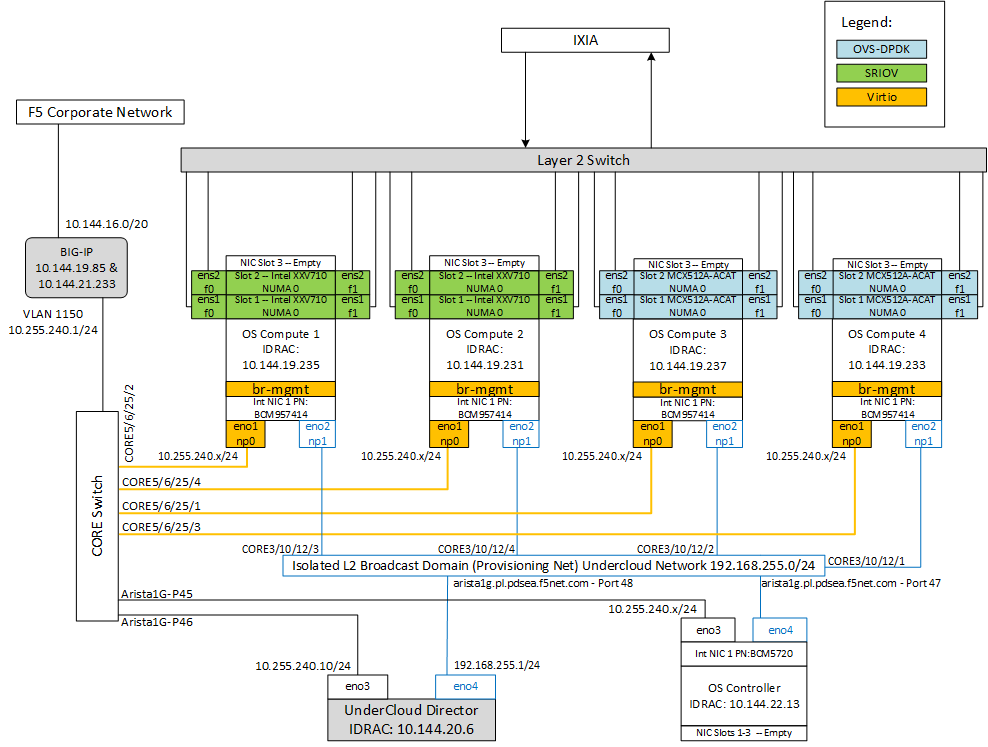
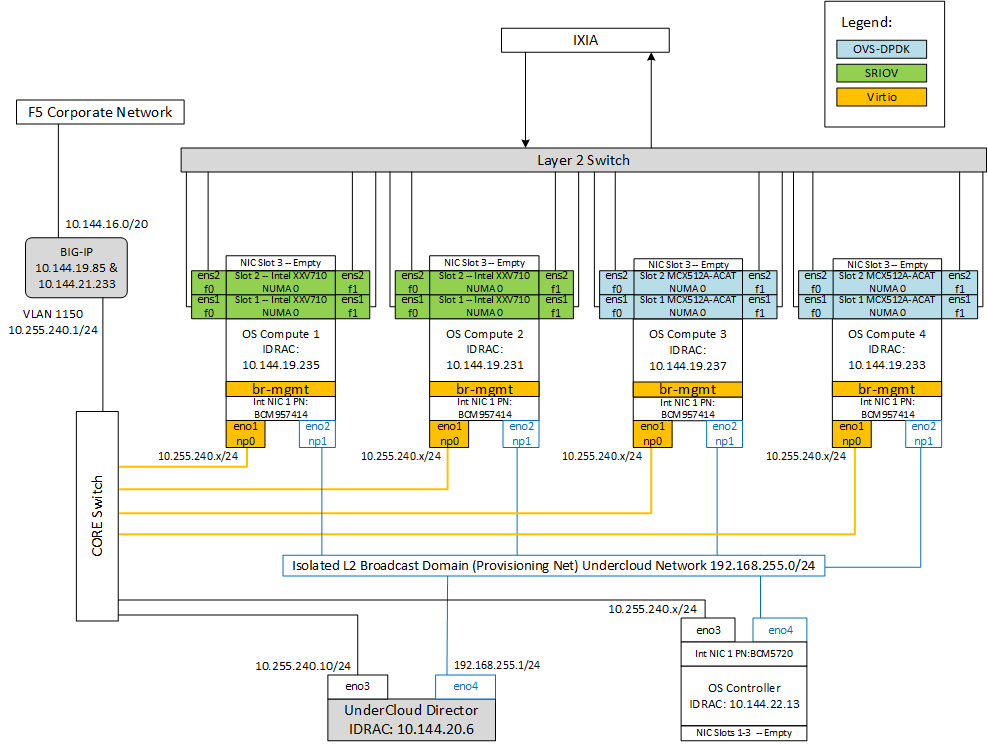
update

diff --git a/Openstack_2.x_Build_Instructions/Openstack_2.x_Configuration_and_Deployment_Guide_for_RHOSP_16.md b/Openstack_2.x_Build_Instructions/Openstack_2.x_Configuration_and_Deployment_Guide_for_RHOSP_16.md
@@ -30,14 +30,14 @@
 
 <br/>  
 
-| **Node**            | **Location** | **eno3 mgmt** | **eno1np0 mgmt** | **eno4 prov** |  **eno2np1 prov**  |
-| :---------:         | :----------: | :----------:  | :----------:     | :----------:    |  :----------:     |  
-| Undercloud Director | L25-A08-U13  | CORE3/6/2/3   | N/A              | CORE3/5/21/3    | N/A      |  
-| Controller          | L25-A08-U14  | CORE3/5/21/1  | N/A              | CORE3/6/2/1     | N/A     |  
-| Compute Node 1      | L25-A15-U25  | N/A           | CORE3/5/21/2    | N/A     | CORE3/10/1/3      |  
-| Compute Node 2      | L25-A15-U27  | N/A           | CORE3/5/21/2    | N/A     | CORE3/10/1/3      |  
-| Compute Node 3      | L25-A15-U24  | N/A           | CORE3/5/21/2    | N/A     | CORE3/10/1/3      |  
-| Compute Node 4      | L25-A15-U26  | N/A           | CORE3/5/21/2    | N/A     | CORE3/10/1/3      |  
+| **Node**            | **Location** | **eno3 mgmt** | **eno1np0 mgmt** | **eno4 prov** |  **eno2np1 prov** |
+| :---------:         | :----------: | :----------:  | :----------:     | :----------:  |  :----------:     |  
+| Undercloud Director | L25-A08-U13  | Arista1G-P46  | N/A              | Arista1G-P48  | N/A               |  
+| Controller          | L25-A08-U14  | Arista1G-P45  | N/A              | Arista1G-P47  | N/A               |  
+| Compute Node 1      | L25-A15-U25  | N/A           | CORE5/6/25/2     | N/A           | CORE3/10/12/3     |  
+| Compute Node 2      | L25-A15-U27  | N/A           | CORE5/6/25/4     | N/A           | CORE3/10/12/4     |  
+| Compute Node 3      | L25-A15-U24  | N/A           | CORE5/6/25/1     | N/A           | CORE3/10/12/2     |  
+| Compute Node 4      | L25-A15-U26  | N/A           | CORE5/6/25/3     | N/A           | CORE3/10/12/1     |  
 
 <br/> 
 
